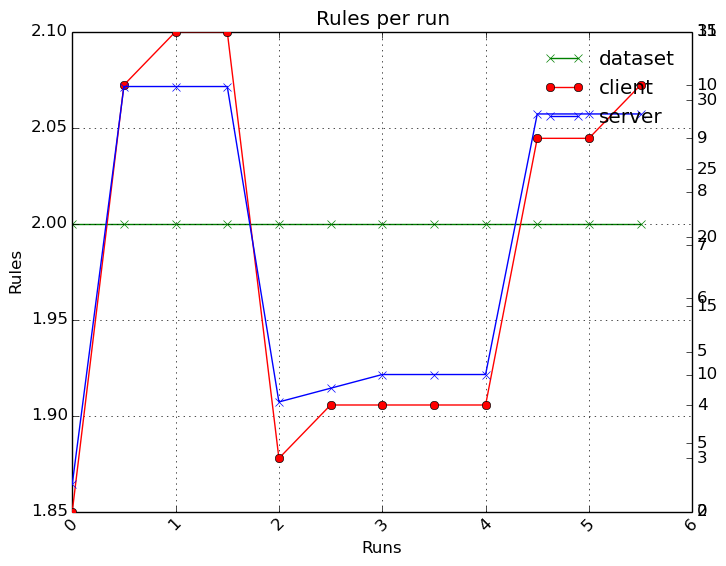
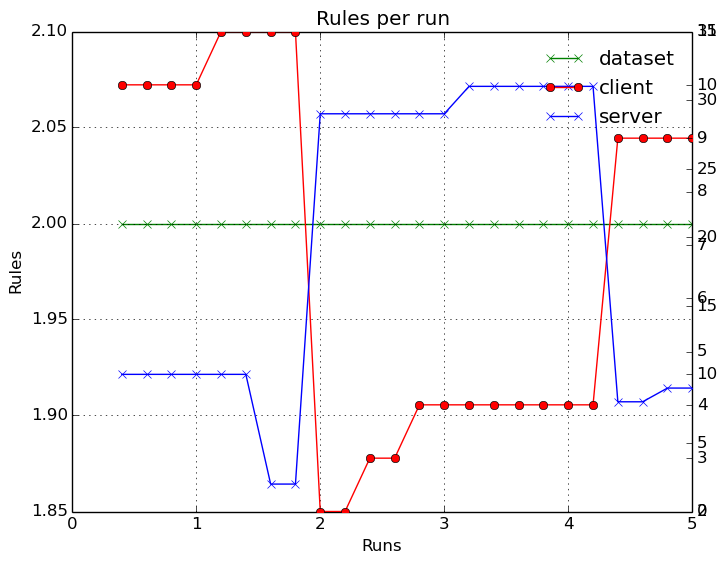
Plotting...

diff --git a/Parser/metrics/plot.py b/Parser/metrics/plot.py
@@ -67,6 +67,7 @@ for line in data:
 
 max_rules = []
 for i in range(services):
+    rules[i].sort()
     max_rules.append(rules[i][int(num_of_runs)-1])
 max_value = max(max_rules)
 
@@ -83,7 +84,8 @@ fig, ax1 = plt.subplots()
 ax1.grid(True)
 ax1.set_xlabel("Runs")
 ax1.set_ylabel("Rules")
-ax1.set_xticklabels(x_Axis, rotation=45)
+ax1.set_xticklabels(x_Axis)
+#ax1.set_yticklabels([0 1  2])
 #ax1.axis([0, int(num_of_runs), 0, max_value])
 #ax1.set_xlim(-0.5, len(x_Axis) - 0.5)
 #ax1.set_ylim(min(rules[0]) - 0.005, max(rules[3]) + 0.005)
